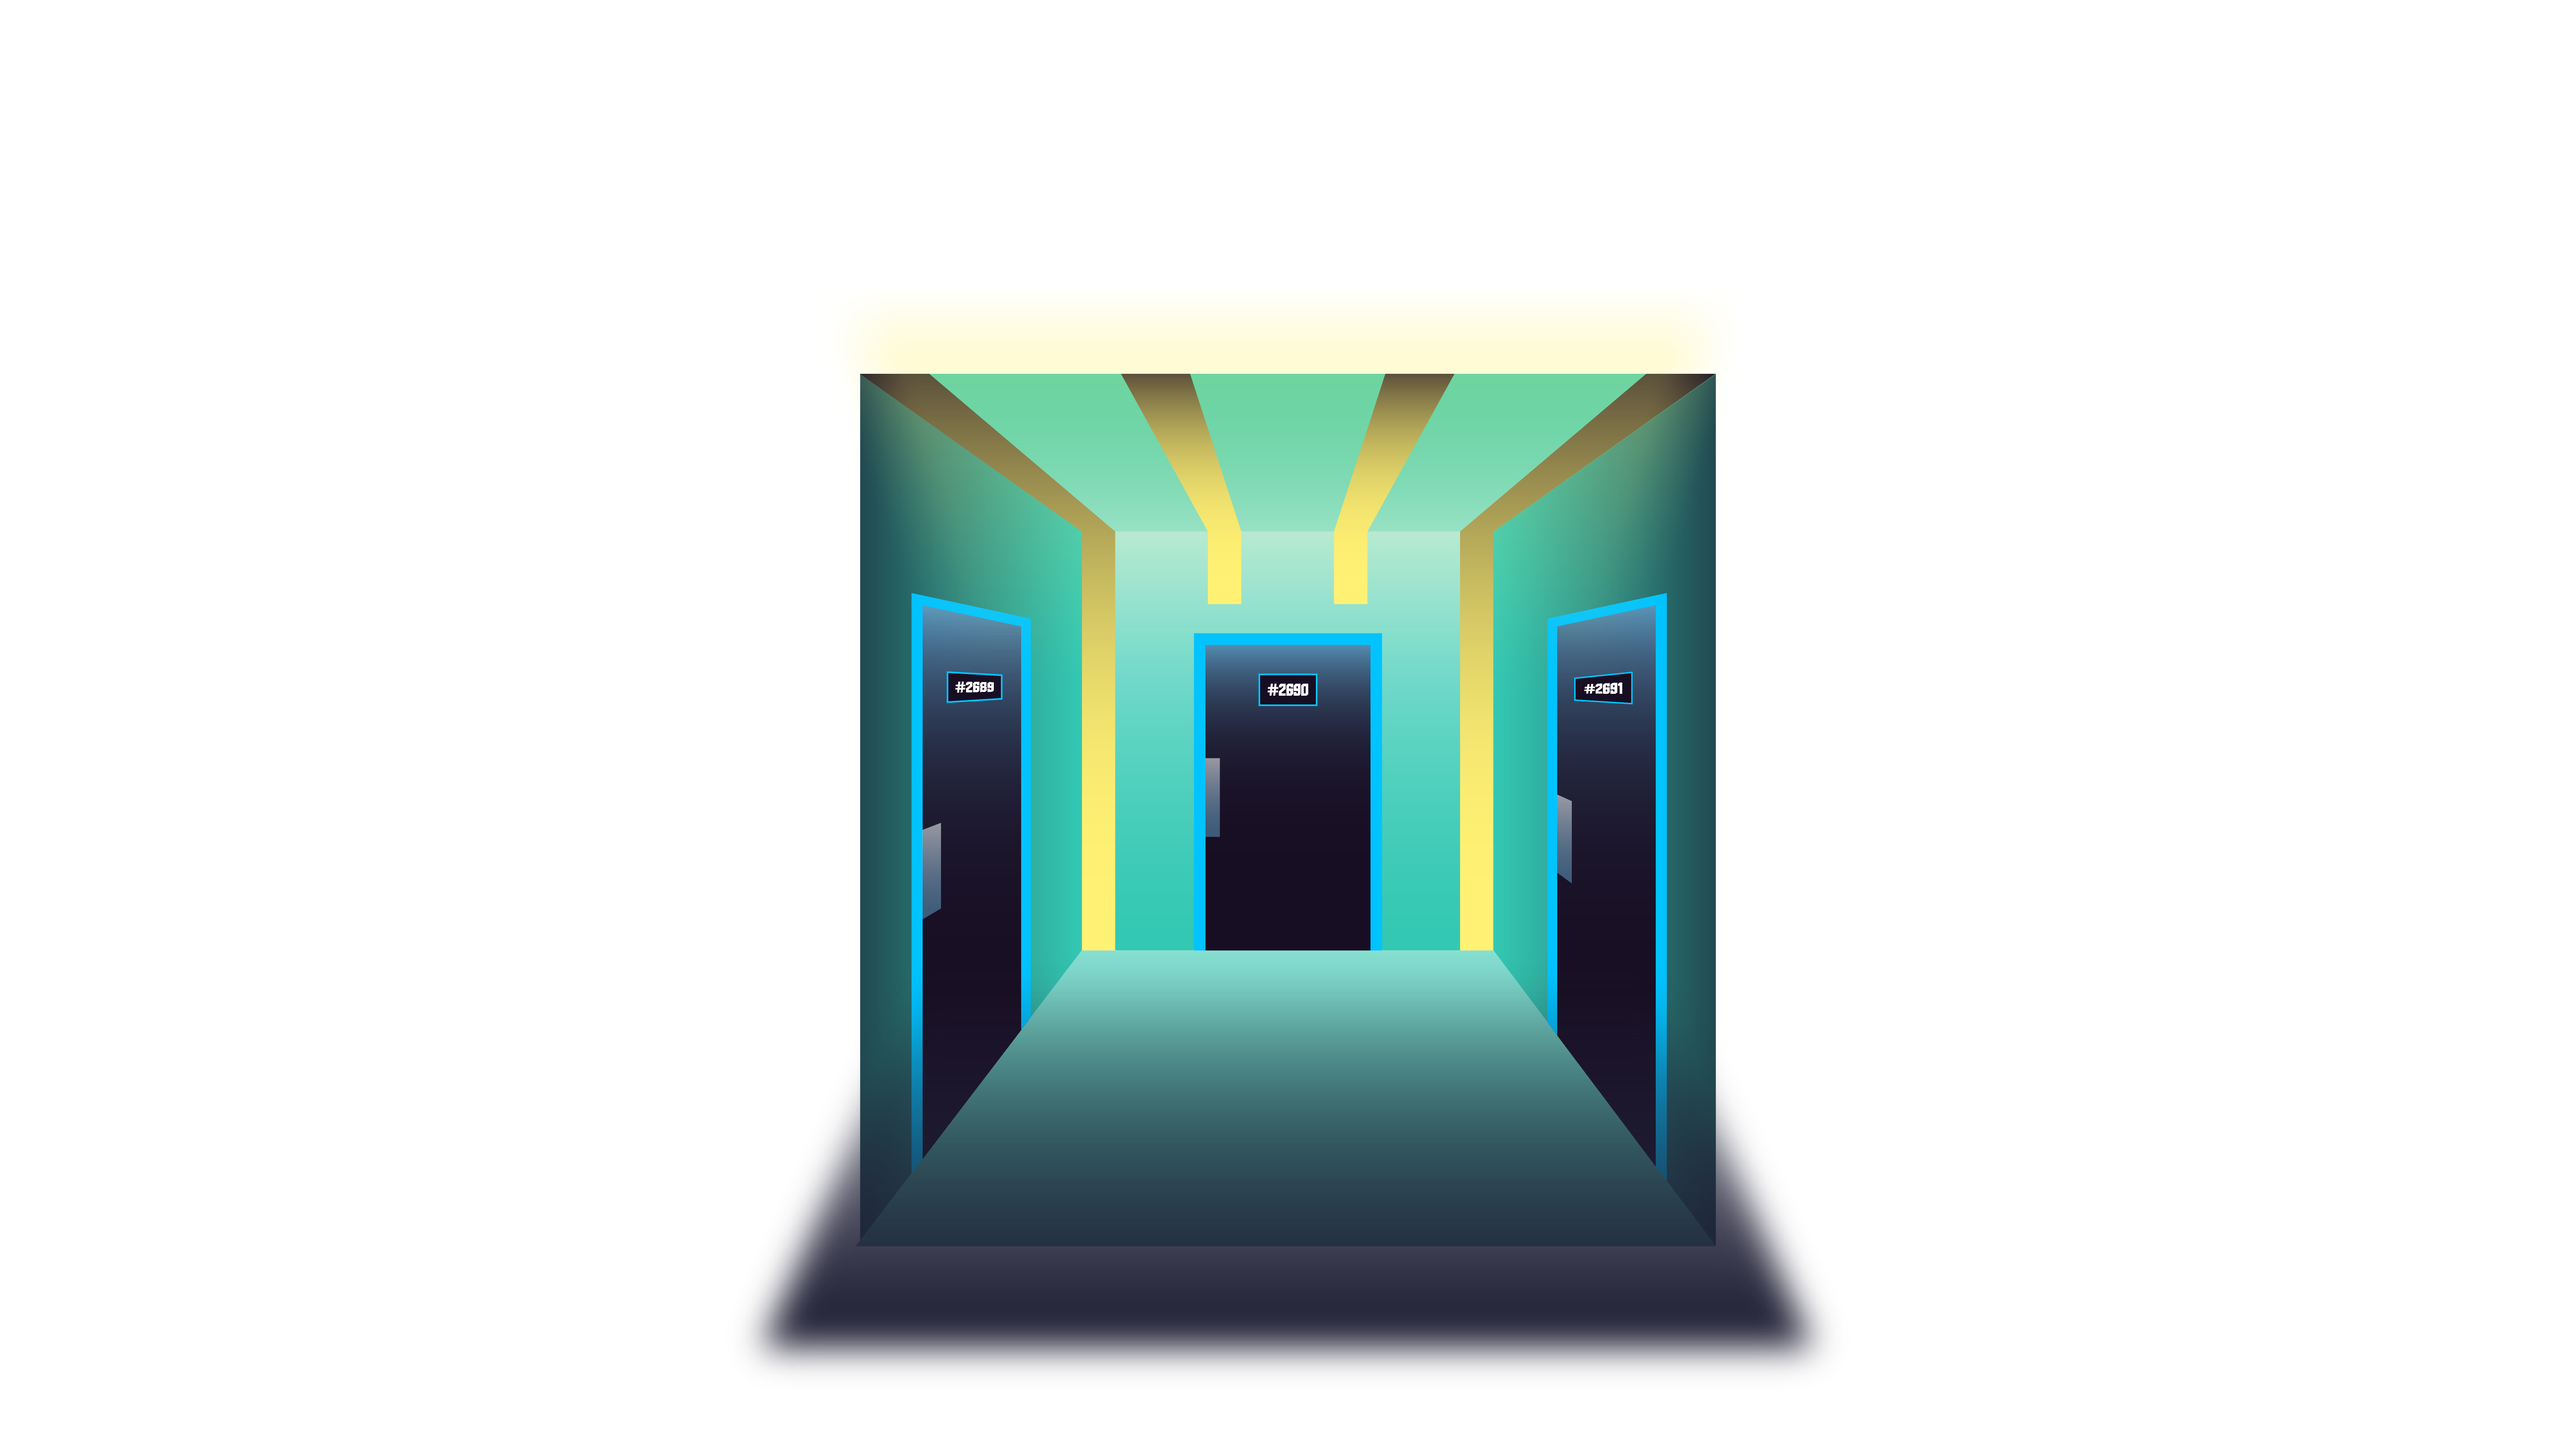
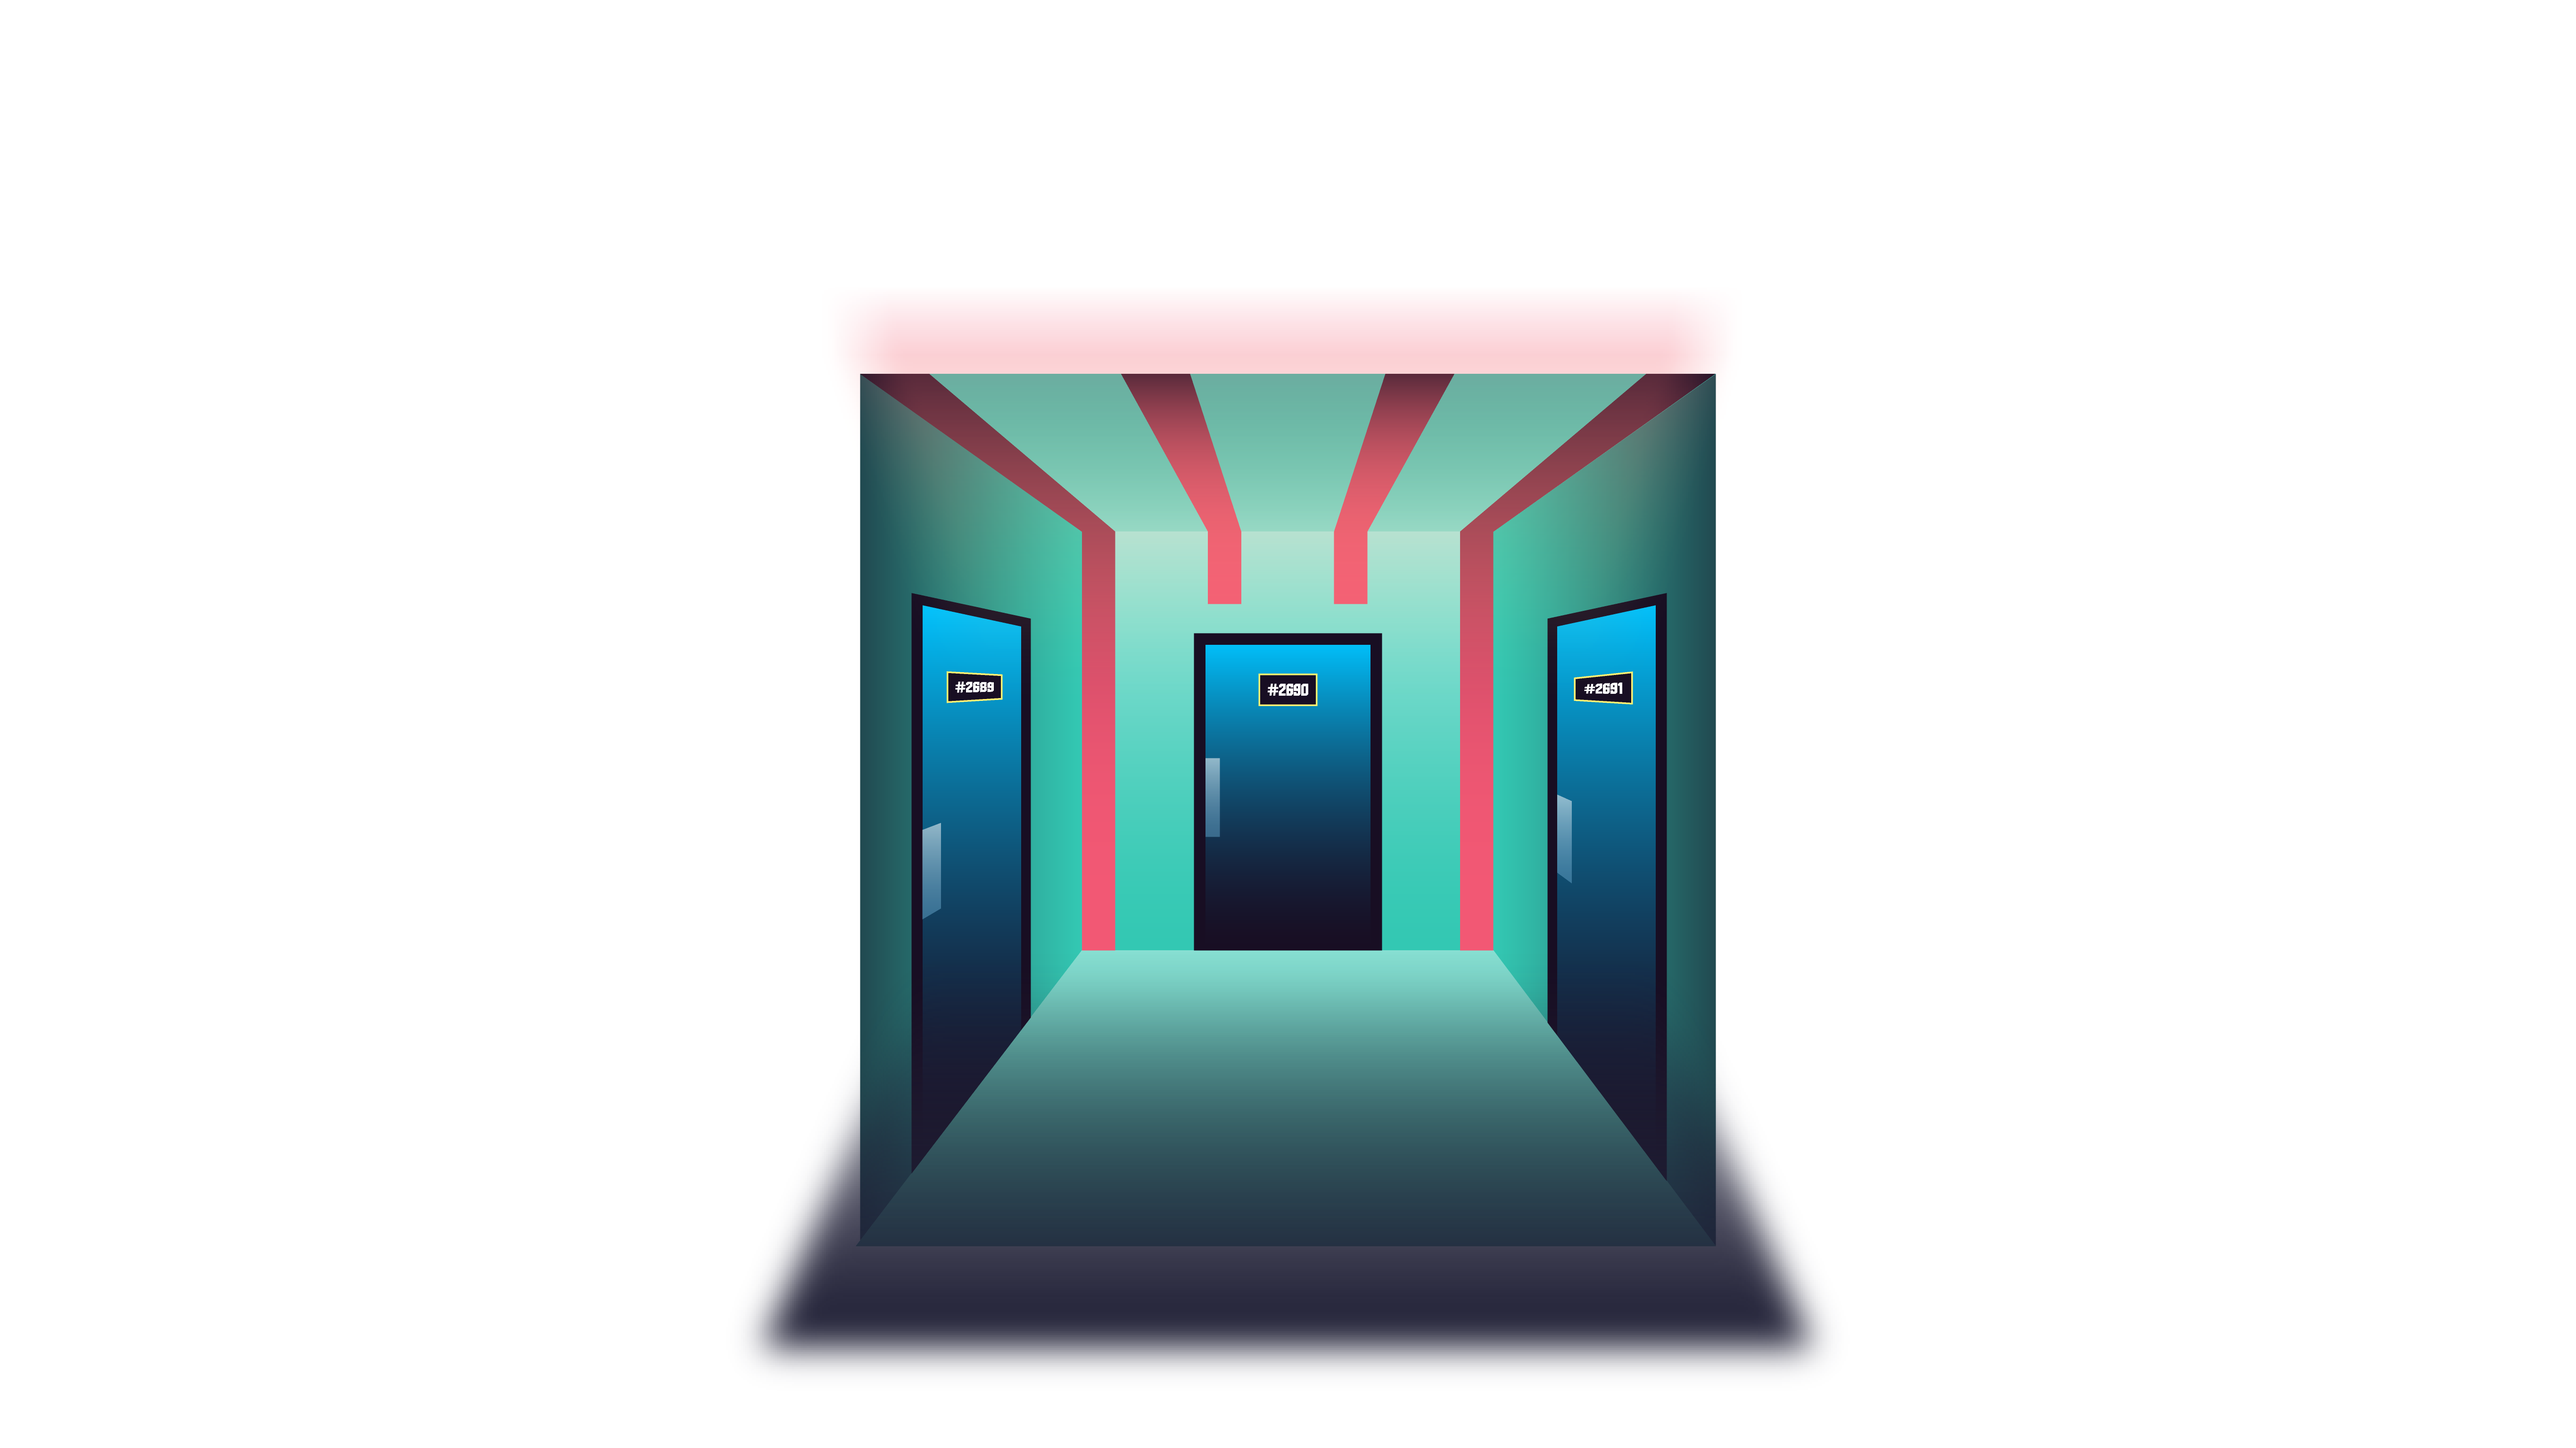
Elevator fixes (graphics)

Changed region(s): [[0.3422, 0.2188, 0.6534, 0.8125]]

diff --git a/index.html b/index.html
@@ -44,18 +44,6 @@
           <stop offset="1" stop-color="#33c8b3"/>
         </linearGradient>
         <linearGradient xlink:href="#Unbenannter_Verlauf_298" id="Unbenannter_Verlauf_298-2" x1="807.82" x2="807.82"/>
-        <linearGradient id="Unbenannter_Verlauf_480" x1="683" x2="683" y1="504.02" y2="338.92" gradientUnits="userSpaceOnUse">
-          <stop offset="0" stop-color="#180e23"/>
-          <stop offset=".41" stop-color="#180f24"/>
-          <stop offset=".56" stop-color="#1b152b"/>
-          <stop offset=".67" stop-color="#202037"/>
-          <stop offset=".75" stop-color="#272f48"/>
-          <stop offset=".82" stop-color="#31425e"/>
-          <stop offset=".89" stop-color="#3c5b79"/>
-          <stop offset=".95" stop-color="#497798"/>
-          <stop offset="1" stop-color="#5997bd"/>
-          <stop offset="1" stop-color="#5a99bf"/>
-        </linearGradient>
         <linearGradient id="Unbenannter_Verlauf_607" x1="643.02" x2="643.02" y1="402.19" y2="443.75" gradientUnits="userSpaceOnUse">
           <stop offset="0" stop-color="#fff"/>
           <stop offset=".06" stop-color="#f1f6f9"/>
@@ -1591,24 +1579,15 @@
             x1="807.82"
             x2="807.82"
           />
-          <linearGradient
-            id="Unbenannter_Verlauf_480"
-            x1="683"
-            x2="683"
-            y1="504.02"
-            y2="338.92"
-            gradientUnits="userSpaceOnUse"
-          >
-            <stop offset="0" stop-color="#180e23" />
-            <stop offset=".41" stop-color="#180f24" />
-            <stop offset=".56" stop-color="#1b152b" />
-            <stop offset=".67" stop-color="#202037" />
-            <stop offset=".75" stop-color="#272f48" />
-            <stop offset=".82" stop-color="#31425e" />
-            <stop offset=".89" stop-color="#3c5b79" />
-            <stop offset=".95" stop-color="#497798" />
-            <stop offset="1" stop-color="#5997bd" />
-            <stop offset="1" stop-color="#5a99bf" />
+          <linearGradient id="Unbenannter_Verlauf_480" x1="515.34" x2="515.34" y1="614.75" y2="320.95" gradientUnits="userSpaceOnUse">
+            <stop offset="0" stop-color="#180e23"/>
+            <stop offset=".1" stop-color="#171228"/>
+            <stop offset=".24" stop-color="#152039"/>
+            <stop offset=".4" stop-color="#123755"/>
+            <stop offset=".56" stop-color="#0e567b"/>
+            <stop offset=".75" stop-color="#087fac"/>
+            <stop offset=".93" stop-color="#02afe7"/>
+            <stop offset="1" stop-color="#00c3ff"/>
           </linearGradient>
           <linearGradient
             id="Unbenannter_Verlauf_607"
@@ -2820,14 +2799,14 @@
               <g id="frame">
                 <path
                   d="M633.21 335.92v168.1h6v-162.1h87.58v162.1h6v-168.1h-99.58Z"
-                  fill="var(--color-red)"
+                  fill="var(--color-black)"
                 />
               </g>
               <g id="number">
                 <path d="M667.83 357.67h30.33v16.41h-30.33z" fill="var(--color-black)" />
                 <path
                   d="M698.54 374.45h-31.08v-17.16h31.08v17.16Zm-30.33-.75h29.58v-15.66h-29.58v15.66Z"
-                  fill="var(--color-red)"
+                  fill="var(--color-yellow)"
                 />
                 <path
                   d="M676.66 364.49h1.19l-.11.85h-1.18l-.11 1.02h1.23l-.1.84h-1.23l-.2 1.75h-.93l.19-1.75h-1.03l-.2 1.75h-.93l.19-1.75h-1.21l.12-.84h1.19l.12-1.02h-1.26l.11-.85h1.25l.2-1.75h.93l-.19 1.75h1.02l.2-1.75h.93l-.2 1.75Zm-1.13 1.87.12-1.03h-1.05l-.12 1.03h1.06Z"
@@ -2852,10 +2831,6 @@
               </g>
             </g>
           </svg>
-          <img
-            class="layer foreground"
-            src="/src/assets/imgs/rooms/elevator/foreground.png"
-          />
         </div>
         <!-- Kitchen -->
         <div class="scene kitchen hidden">

diff --git a/src/hotspotData.js b/src/hotspotData.js
@@ -224,7 +224,6 @@ export const hotspots = {
         year: { title: "Herstellungsjahr", data: "55" },
         location: { title: "Herstellungsort", data: "Hydroponikfarm Süd C" },
         status: { title: "Status", data: "Verdorben" },
-        belongsTo: { title: "Zugehörigkeit", data: "Privathaushalt" },
         nutritionalValues: { title: "Nährstoffwerte", data: "Außergewöhnlich hoher Vitamingehalt"},
       },
       textLocation: {
